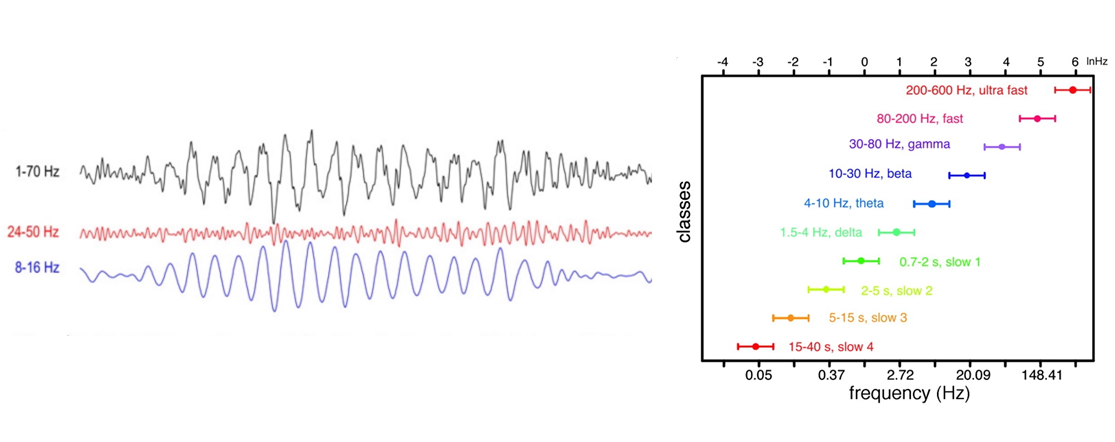
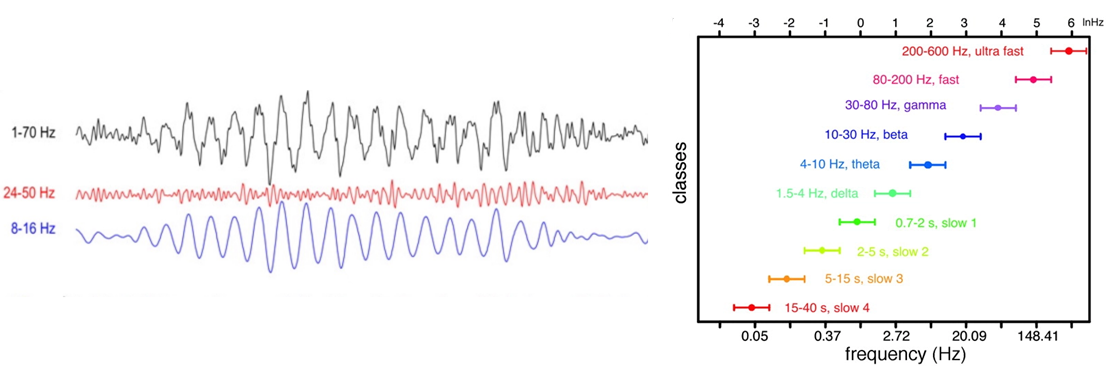
Update section 10

diff --git a/sections/10_brain_oscillations.tex b/sections/10_brain_oscillations.tex
@@ -1,157 +1,126 @@
 \subsection{Introduction}
-The term "brain (or neural) oscillations" refers to the rhythmic and/or repetitive electrical 
-activity generated spontaneously and in response to stimuli by neural tissue in the central 
+The term "\textbf{brain (or neural) oscillations}" refers to the rhythmic and/or repetitive electrical 
+activity generated spontaneously or in response to stimuli in the central 
 nervous system. The importance of brain oscillations in sensory-cognitive processes has become 
 increasingly evident. This chapter will focus on some questions:
 \begin{itemize}
     \item What does a neural oscillation consist of and how does it originate?
     \item What are the (main) roles of brain oscillations?
-    \item How do we observe and characterize a brain oscillation?
-\end{itemize}
-
-\subsection{Neuronal Geometry and Architecture}
-By looking at the extracellular field potentials, brain signals are strongly dependent on the 
-geometry of the system (e.g., the hippocampus has a very different geometry with respect to 
-the subthalamic nuclei). Based on the geometry and the architecture of the system, the signals 
-could be very different.
-\begin{itemize}
-    \item Much of the signals taken into account are coming from \textbf{pyramidal cells}, because they have a very 
-    specific geometry and orientation that create aligned electrical dipoles, which generate very strong 
-    electrical field potentials.
-    \item There are also \textbf{spherically symmetric neurons} (e.g., thalamocortical cells) which have a circular 
-    geometry with dendrites of relatively equal size in all directions that somehow reduces the possibility of 
-    having very synchronized field potentials.
+    \item How do we observe a brain oscillation?
 \end{itemize}
 
 \subsection{EEG and MEG}
-Electroencephalography (EEG) and Magnetoencephalography (MEG) are the main classical techniques for recording 
-non-invasively the electrical activity from the human brain. These two techniques can be combined with systems 
-that record both the electrical field and the magnetic field, but, in general, they record two different aspects 
-of the same event: there is a current that travels along the axons of the dendrites generating an electrical 
-field that is summed among many cells and finally reaches the sensors. Depending on the physical variable that is 
-taken into account, an EEG or a MEG can be recorded.
+In the brain, what usually happens is that a current travels along the axons of the dendrites generating an electrical 
+field that is summed among many cells and finally reaches the sensors.\\
+Electroencephalography (EEG) and Magnetoencephalography (MEG) are the main classical techniques to record the electrical activity of the human brain in a non-invasive way. They are based on systems 
+that exploit the electrical field and the magnetic field, respectively, but, in general, they record two different aspects 
+of the same event:
 \begin{itemize}
     \item The EEG records the electrical field and, for this reason, the unit of measurement is volts (typically 
     microvolts, \(10^{-6}\,V\)).
-    \item The MEG records the magnetic inducted component in a static magnetic field where the head of the person is 
-    immersed on. The unit of measurement is tesla (typically femtotesla, which is \(10^{-15}\,T\)).
+    \item The MEG records the magnetic induced component in a static magnetic field where the head of the person is 
+    immersed. The unit of measurement is tesla (typically femtotesla, which corresponds to \(10^{-15}\,T\)).
 \end{itemize}
-One of the major difference is the fact that the two systems are very different in terms of acquisition systems: EEG 
-is composed by sensors placed on the scalp and wires (one for each electrode) connected to an amplifier, because 
-electrical fields have a power that needs to be amplified, while MEG requires dedicated and specially built rooms and 
+One of the main differences between these two techniques is the acquisition system: EEG 
+uses sensors placed on the scalp and wires (one for each electrode) connected to an amplifier, which is needed because 
+electrical fields have a power that has to be magnified, while MEG requires dedicated and specially built rooms and 
 more intensive and expensive maintenance.
-One drawback of the MEG is the fact that the coils are fixed, and so, if the subject moves his head, there is a 
-a magnetic induction even though the current is not travelling, and data are completely useless.\\
-One of the main reason for acquiring and looking at MEG instead of EEG is the fact that magnetic fields pass through the 
-skull and scalp, whereas the electrical fields are volume conducted through these tissues, which decreases 
+Another drawback of MEG is the fact that the coils used to acquire the signals are fixed, hence, if the subject moves his head, there is a 
+a magnetic induction even though no current is travelling, making data completely useless.\\
+One of the main reasons to acquire and look at MEG instead of EEG is the fact that magnetic fields pass through the 
+skull and scalp, whereas the electrical fields are volume conducted through these tissues. This causes a decrease of the 
 signal-to-noise ratio at higher frequencies (performing a low-pass filtering). For this reason, MEG signals have a 
-larger power in terms of spatial resolution (better localization power), and this could be useful, for instance, 
-for clinical purpose, as for studying epilepsy.
+better spatial resolution (better localization power), and this could be useful, for instance, 
+for clinical purposes (i.e., for studying epilepsy).
 
-\subsubsection{Origin of EEG Signal}
-This technique is not so different from what has been said regarding local field potentials, but it has one more 
-problem: the sensors are not located into the brain but outside, and so the signal has to travel all the distance 
+\subsubsection{Origin of EEG Signals}
+EEG is not so different from what has been said regarding local field potentials, but it has one more 
+problem caused by the fact that the sensors are not located into the brain but outside it, and so the signal has to travel all the distance 
 from the source up to the electrodes. EEG is the synchronized synaptic activity in populations of cortical neurons 
-closer to the electrode, and it performs a spatial integration (net sum at the electrode).
-What is the problem of the spatial integration? There is a difference governed by the \textbf{orientation} of the neurons.
+closer to the electrode, hence at the electrode a spatial integration is performed (net sum). 
+The spatial integration is tightly related to the differences of \textbf{orientation} between the neurons.
 \par\medskip
 Electrodes detect the sum of positive and negative charges in their vicinity. In the case where an electrode is 
 equidistant from both \textit{source} (region of positive charge) and \textit{sink} (region of negative charge) 
-of a dipole, the electrode will measure a net neutral; so, an electrode can only detect dipoles when it is  
-closer to either the positive or negative end of the dipole. This means that two major types of dipoles are 
-measurable in EEG: tangential dipoles, which are oriented perpendicular to the surface (first figure), and radial 
-dipoles, which are oriented parallel to the scalp surface (second figure). Dipoles have a positive and negative side, 
-and therefore will produce both a positive deflection and a negative deflection at different regions of the scalp.
+of a dipole, the electrode will measure a net neutral charge; so, an electrode can only detect dipoles when it is  
+closer to either the positive or negative end of the dipole. This means that mainly two types of dipoles are 
+measurable in EEG: \textbf{tangential dipoles}, which are perpendicular to the scalp surface (left figure), and \textbf{radial
+dipoles}, which are parallel to it (right figure). Dipoles have a positive and negative side, 
+and therefore can produce both a positive deflection and a negative deflection in different regions of the scalp.
 \begin{figure}[H]
-    \includegraphics[scale=0.55]{10_1}
+    \includegraphics[scale=0.45]{10_1}
     \centering
 \end{figure}
-\par\medskip
-A single neuron's dipole is too small to be measured as far away as the scalp. However, because electrodes detect the 
-sum of charges in their vicinity, the dipoles from multiple neurons in a region will sum together. The sum of many 
-individual dipoles in an area is measurable as a single dipole whose magnitude reflects the number of neurons whose 
-dipoles are summing together. However, because electrodes will measure the sum of both the positive and the negative 
-ends of dipoles in the brain, in order to produce a measurable (nonzero) signal, neurons must be both arranged in a 
-\textit{parallel manner}, and they must be \textit{synchronously active}. 
+In general, a single neuron's dipole is too small to be measured at the scalp. However, electrodes detect the 
+sum of charges in their vicinity, which in this case corresponds to the sum of dipoles from multiple neurons, that can be considered as a single dipole whose magnitude is proportional to the number of neurons whose 
+dipoles are being summed together. But since both positive and negative 
+ends of dipoles in the brain are summed, in order to produce a nonzero signal, neurons must be both arranged in a 
+\textit{parallel manner}, and active in a \textit{synchronous way}. If this doesn't happen, in fact, the individual dipoles' positive and negative ends will cancel each other out.
 \begin{figure}[H]
     \includegraphics[scale=0.45]{10_2}
     \centering
 \end{figure}
-The parallel arrangement is necessary to produce a measurable 
-dipole because, if the neurons are all arrayed in the same orientation, then their signals can sum to form a larger 
-signal. In any other configuration, the individual dipoles' positive and negative ends will sum and cancel each other 
-out. The synchronization of activity is necessary in order to yield a net charge on the scalp-facing side of the 
-dipole sheet, rather than charges cancelling each other out, and also to have a signal large enough to be measured.
-\par\medskip
-Finally, given the fact that the electrical field moves in space for reaching the sensors (and this phenomenon can 
-be called \textbf{Volume Conduction}), the signal reaches at least the outer skull layers. If there is not a layer 
+Finally, the electrical field moves in space to reach the sensors (and this phenomenon can 
+be called \textbf{Volume Conduction}). When the signal reaches the outer skull layers, if there is not a layer 
 that facilitates the passage of ions, it is not possible to record anything. At this purpose a conductive gel can 
-be used, in order to allow the passage of ions from the sources up to the sensors.
+be used.
 \begin{figure}[H]
     \includegraphics[scale=0.40]{10_3}
     \centering
 \end{figure}
 
 \subsubsection{EEG (Simplified) DAQ}
-Which systems are capable of acquiring the data? In the following it is possible to see a simplified model of 
+In the following image, it is possible to see a simplified model of 
 the EEG acquisition system:
 \begin{itemize}
-    \item The first element is the \textbf{Sensor}, that has some sort of resistance (\(R_1\)), referred to 
+    \item The first element is the \textbf{sensor}, that has some sort of resistance (\(R_1\)), representing 
     the scalp.
-    \item Then there is a \textbf{Cable}, that is used to connect the sensor to the amplifier. 
-    The resistance is \(R_2\).
-    \item The last part is the \textbf{Amplification System}, with its resistance \(R_3\).
+    \item Then there is a \textbf{cable}, that is used to connect the sensor to the amplifier. 
+    Its resistance is \(R_2\).
+    \item The last part is the \textbf{amplification system}, with a resistance \(R_3\).
 \end{itemize}
 \begin{figure}[H]
     \includegraphics[scale=0.30]{10_4}
     \centering
 \end{figure}
-For the reasons seen before, \(R_1\) must be as low as possible to permit the ions to reach the sensors. Also the 
-resistance of the cable (\(R_2\)) needs to be very small, in order not to have any loss of the signal. What can be 
-said about \(R_3\)? It should be very large, compared to \(R_1\) and \(R2\), in particular it must be orders of 
-magnitude larger than the sum of the two. When the data is acquired, the voltage that is considered is the one 
-incident to \(R_3\); the signal that reaches \(R_3\) is composed by the activity incident to \(R_1\) and the noise 
-added from the sources \(A\) and \(B\). \(R_1\) and \(A\) are very close to each other, and they decay of the same 
-amount reaching \(R_2\); the very huge different (if \(R_3\) is very small) is that the largest fraction of the recorded 
-activity is not dependent on the signal but is mainly noise. \\
-In the other sense, if there is a very huge amplifier resistance, what happens is that the potential will be largely equally 
-dependent from the noise and the signal itself: this, somehow, allows to have a better signal-to-noise ratio.
-More modern acquisition systems tend to improve these two factors:
+For the reasons said before, \(R_1\) must be as low as possible to permit the ions to reach the sensors. Also the 
+resistance of the cable (\(R_2\)) needs to be very small, in order not to have any loss of the signal. On the other hand, \(R_3\) should be very large, compared to other ones: it must be orders of 
+magnitude larger than the sum of the two. 
+In fact, if the dimension of \(R_3\) is comparable to the one of \(R_1\) and \(R_2\), the largest fraction of the recorded 
+activity is not dependent on the signal but is mainly noise introduced by the sources \(A\) and \(B\).\\
+Conversely, if there is a very huge amplifier resistance, what happens is that the potential will be equally 
+dependent from the noise and the signal itself, and this allows to have a better signal-to-noise ratio.
+Modern acquisition systems tend to improve these two factors:
 \begin{itemize}
     \item Increase of \(R_3\).
-    \item Reduce the distance from the amplifier and the sensors. A large part of the modern systems has a pre-amplification, 
-    that directly attaches to the sensors.
+    \item Reduce the distance between the amplifier and the sensors. A large part of the modern systems has a pre-amplification, 
+    that is directly attached to the sensors.
 \end{itemize}
 
 \subsubsection{EEG Principles and Good Practice}
-What needs to be monitored to get the best possible data?
+What does it need to be monitored to get the best possible data?
 \begin{enumerate}
-    \item \textbf{Care in Collection}: it is necessary to pay attention on the amount of gel introduced, depending on the quantity 
-    of channels on the top of the head and also depending on the size of the head. If the electrodes are very close to each other, 
-    the conductive gel can create the so called \textit{bridge} that attaches two sensors together.
-    \item \textbf{Care in Interpretation}: as said before, at the sensor level there are many different orientations and this factor 
-    must be taken into account. The dipoles measured by EEG consist of both positive and negative sides, so a positive EEG 
+    \item \textbf{Care in collection}: it is necessary to pay attention on the amount of gel introduced, depending on the quantity 
+    of channels on the top of the head and on the size of the head. If the electrodes are very close to each other, 
+    the conductive gel can create a so-called \textit{bridge} that attaches two sensors together.
+    \item \textbf{Care in interpretation}: as said before, at the sensor level neurons can have many different orientations and this factor 
+    must be taken into account. The dipoles measured by EEG consist of both positive and negative sides, and a positive EEG 
     deflection measured at a particular location will be balanced by a negative deflection elsewhere on the scalp. Thus, based only on the 
-    deflection of an EEG signal, an observer cannot infer that a generator involved excitatory or inhibitory current.
-    \item \textbf{Care in Localization}: the spatial resolution of the EEG is very poor, because of the \textit{volume conduction} problem. 
-    Sources all over the brain may contribute to a measured signal at the scalp, an infinite number of configurations of these sources may 
-    generate a particular pattern of voltage measured at the scalp. The task of knowing only the final surface voltage pattern and working 
+    deflection of an EEG signal, an observer cannot infer whether the generator caused an excitatory or inhibitory current.
+    \item \textbf{Care in localization}: the spatial resolution of the EEG is very poor, because of the \textit{volume conduction} problem. Sources all over the brain may contribute to a measured signal at the scalp. The task of knowing only the final surface voltage pattern and working 
     backwards to determine which sources within the brain produced that voltage pattern is called \textit{inverse problem}.
 \end{enumerate}
 
 \subsubsection{EEG as a Critical-State System}
-EEG activity gives the possibility to observe a system that is composed by billions of elements, whose interactions are trillions (synapses). 
-The emergent activity is something that has not a single central part of the brain that acts as "master" to explain the 
-overall evolution of the system, but the brain, such as many other complex systems in nature, evolves in a so called "\textbf{Critical Dynamics}".\\
-For these reasons, the brain activity is not anyway trivial, nor automatic, nor repetitive: it evolves in time and changes different states.
+The activity acquired using EEG is something that has not a single central part of the brain that acts as "master" to explain the 
+overall evolution of the system: the brain, such as many other complex systems in nature, evolves in a so called "\textbf{critical dynamics}".\\
+For this reason, the brain activity is not trivial, nor automatic, nor repetitive: it evolves in time and changes to different states.
 There is no interest in understanding how a single neuron interacts with the others, but in evaluating how the system evolves and how dynamically 
-changes patterns of connectivity.\\
-Is there something that can generate the emergence of the system and control how it responds to stimuli? These, of course, are \textbf{Brain 
-Oscillations}.
+changes patterns of connectivity.To understand it, \textbf{brain oscillations} can be studied.
 
 \subsection{Constituents of Brain Oscillations}
-Brain oscillations can be observed looking at the EEG (that has a very fast temporal resolution, between \(200\,Hz\) and \(300\,Hz\)).
-Neuronal networks in the mammalian forebrain demonstrate several oscillatory bands covering frequencies from approximately \(0.05\,Hz\) to \(500\,Hz\).
+Brain oscillations can be observed looking at EEG signals (that have a very fast temporal resolution, between \(200\,Hz\) and \(300\,Hz\)).
+Neuronal networks in the mammalian forebrain demonstrate several oscillatory bands covering frequencies from approximately \(0.05\,Hz\) to \(500\,Hz\).\\
 Brain oscillations are observed in terms of mainly three elements:
 \begin{itemize}
     \item \textbf{Frequency}: information on how fast the oscillation is travelling.
@@ -159,51 +128,50 @@ Brain oscillations are observed in terms of mainly three elements:
     \item \textbf{Amplitude}: information on how large the oscillation is.
 \end{itemize}
 \begin{figure}[H]
-    \includegraphics[scale=0.35]{10_5}
+    \includegraphics[scale=0.4]{10_5}
     \centering
 \end{figure}
-From the figure it is also possible to see the different "Brain Bands" or "EEG Bands". The logarithmic scale is due to the fact that the amplitude of EEG 
-signals decay following a Power-law behavior: for this reason, the representation is linear in a double-logarithmic scale.
+From the figure it is possible to see the different "Brain Bands" or "EEG Bands". A logarithmic scale is used because the amplitude of EEG 
+signals decays following a power-law behavior (hence, the representation is linear in a double-logarithmic scale).
 
 \subsubsection{Oscillations Regulate Neuronal Processing}
-Why is important to look at brain oscillations? \\ Neurons communicate with spikes. Also LFPs have possibilities to control the spikes: in this sense, 
-oscillations are not just a secondary element of the true activity (and so, in this sense they are not epiphenomena).
+Neurons communicate through spikes, but LFPs have the ability to control spikes: in this sense, 
+oscillations are not just a secondary elements of the true activity (and so, in this sense they are not epiphenomena).\\
 
-\paragraph{Example:}
+\textbf{Example:}
 \begin{figure}[H]
-    \includegraphics[scale=0.25]{10_6}
+    \includegraphics[scale=0.3]{10_6}
     \centering
 \end{figure}
 In this example two signals are recorded from different brain areas (Area \(A\) and Area \(B\)), having access on both Local Field Potentials and spiking 
-activity. When the oscillations of the field potentials of the two regions are in opposite phase, the region which generated the activity (the one that is 
-trying to communicate) will be blocked by the fact that the local field potential in the other region has a reduction in voltage, that blocks the voltage-dependent 
-channels. If there is a perfect alignment, what happens is exactly the opposite: if one brain region fires, the other responds, and in this case there is \textbf{
-communication}, which allows to conclude that \textbf{temporal synchronization between field potentials is supportive for neural activity}.\\
+activity. When the oscillations of the field potentials of the two regions are in opposed phase, the region which generated the activity (the one that is 
+trying to communicate) will be blocked by the fact that the local field potential in the other region has a reduction in voltage (that inhibits the voltage-dependent 
+channels). If the oscillations are in perfect alignment, what happens is exactly the opposite: if one brain region fires, the other responds, producing an effective \textbf{
+communication}. This allows to conclude that \textbf{temporal synchronization between field potentials is supportive for neural activity}.\\
 By looking at the LFPs, it is possible to make a link between physiology and cognition.
 
 \subsubsection{Communication Through Coherence Theory}
 The hypothesis has been formalized by Fries P., in 2005 and 2015. His theory, called "\textit{Communication through coherence framework}", says that if two populations 
 have field activities that are "\textbf{coherent}" in time, (which in the sense of Fries means "synchronized"), when one stimulus reaches one population, the same stimulus 
-can reach also the other population. On the other hand, when the two are no aligned, given the fact that the oscillations control the excitation and the excitatory cycle 
+can reach also the other population. On the other hand, when the two are not aligned, given the fact that the oscillations control the excitation and the excitatory cycle 
 of the target cells, the signal will not propagate in the network.
 \begin{figure}[H]
     \includegraphics[scale=0.40]{10_7}
     \centering
 \end{figure}
-This framework applies directly between two neurons, two neuronal ensembles or two brain regions, meaning that 
-it's \textbf{scale-free}.
+This framework can be directly applied to couples of neurons, neuronal ensembles or brain regions, meaning that 
+it's \textbf{scale-free}.\\
 Looking at the second image, if there is a stimulation (first row), this is perceived by all the populations whose 
 excitation is perfectly in phase with the first one (in this case, second row). The misalignment of the first two rows 
-is consistent considering the distance from the source to the target. For example, Wernicke and Broca, are two brain 
-regions responsible on understanding language (Wernicke) and producing language (Broca); 
-they are connected by a dense number of axons, and damaging one of the two it could be a problem for the speaking or for understanding language. 
-So, it is not important that the oscillations generated in the two regions are perfectly aligned in time, but the important part in this framework is 
-that the misalignment (the time delay) is constant, depending on the time that requires one signal to reach the other.\\
-On the other hand, if another population (third row) receives a different input and tries to communicate with the central region (row 2), if the excitatory cycle is not 
-perfectly aligned, then the activity will be blocked.
+is consistent with the distance from the source to the target. An example are Wernicke and Broca, that are two brain 
+regions responsible for understanding language (Wernicke) and producing language (Broca). They are connected by a dense number of axons, and the damage of one of the two could be a problem for speaking or understanding language.\\ 
+Hence, what has to be considered is not the perfect alignment in time of the two signals in the two regions, but the fact that the misalignment between them (the time delay) has to be coherent with the time that one signal requires to reach the other.\\
+If this doesn't happen, i.e., a third population (third row) receives a different input and tries to communicate with the central region (row 2), then the activity will be blocked.
 
 \subsubsection{Oscillations Regulate Context Switching}
-There are structures that are physically linked (for instance, Wernicke and Broca), and there exists other regions whose connection is more blur (top level networks in the 
-cognitive processing) and here there is another kind of behavior, because signals come from very different regions and at the same time. Brain needs to be able to switch 
-among different configurations, to process different information very differently but simultaneously, and this happens thanks to brain oscillations, because all brain 
+On the basis of what has just been said, some structures that are physically linked can be identified (for instance, Wernicke and Broca), with respect to other ones whose connection is more blur (top level networks in the 
+cognitive processing). \\
+The brain needs to be able to switch 
+among different configurations, to process different information simultaneously, and this happens thanks to brain oscillations, that exist at all frequency scales at the same time. gurations, to process different information very differently but simultaneously, and this happens thanks to brain oscillations, because all brain 
+oscillations at all frequency scales exist at the same time.gurations, to process different information very differently but simultaneously, and this happens thanks to brain oscillations, because all brain 
 oscillations at all frequency scales exist at the same time.
